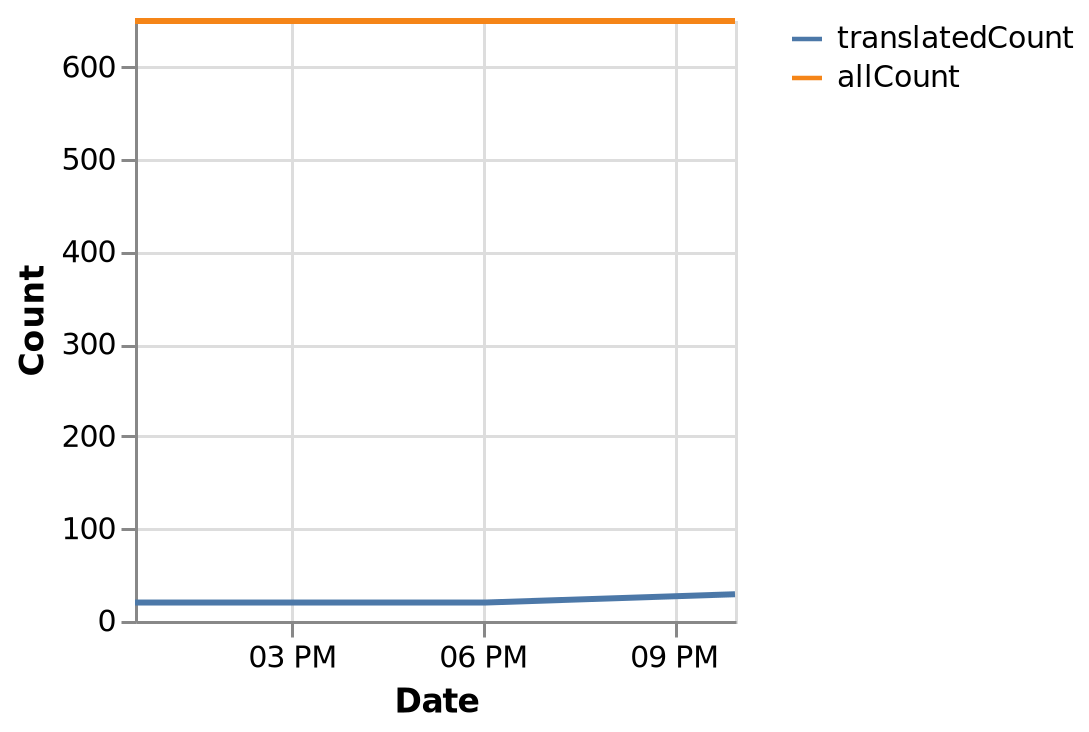
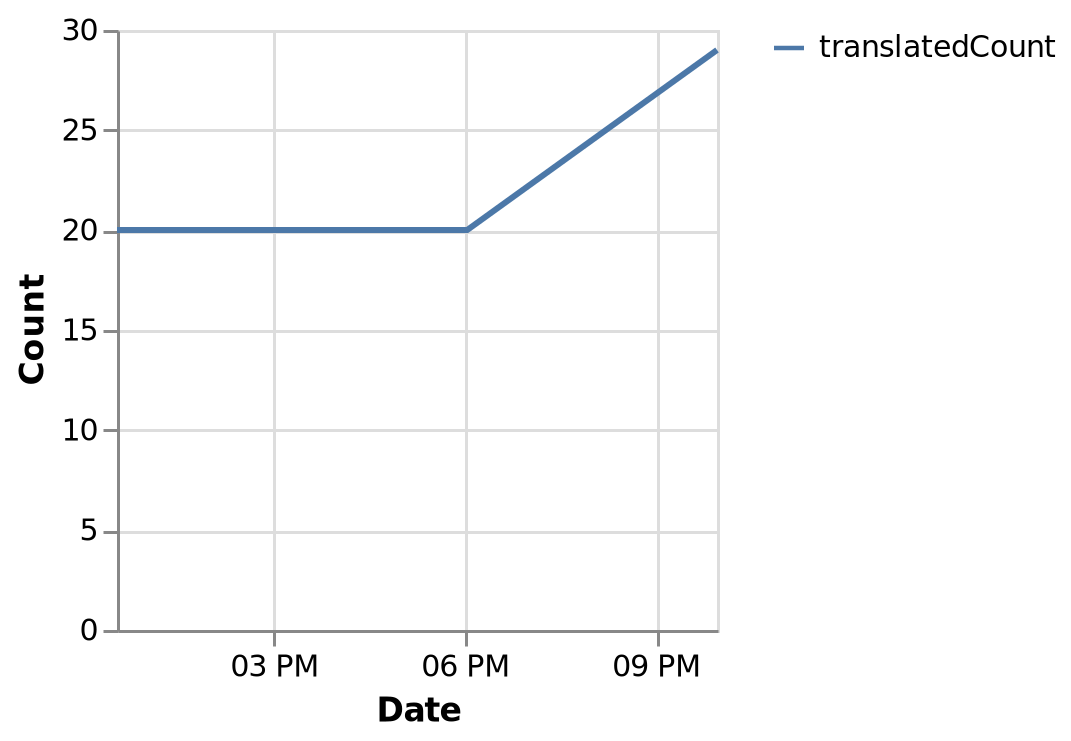
feat: hide all counts

Changed region(s): [[0.0, 0.0, 0.6779, 0.9918], [0.7087, 0.0301, 0.986, 0.1202]]

diff --git a/types/json/index.d.ts b/types/json/index.d.ts
@@ -1,8 +1,10 @@
 declare module "*/translated-result.json" {
   interface ResultData {
     createdAt: string;
-    translatedCount: number;
     allCount: number;
+    translatedCount: number;
+    titleTranslatedCount: number;
+    descTranslatedCount: number;
   }
 
   const value: ResultData[];
